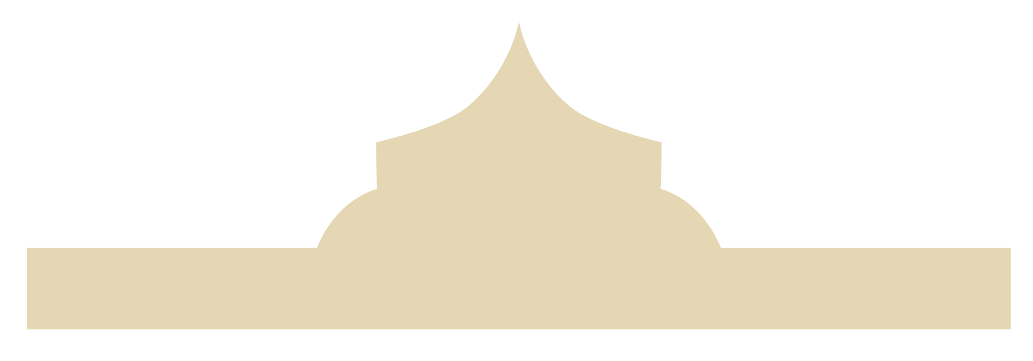
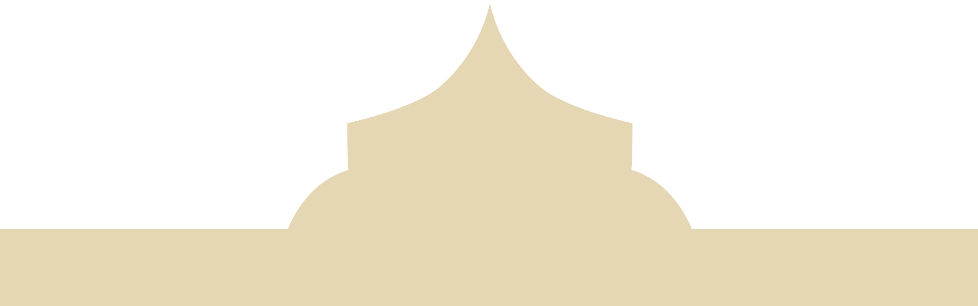
tajmahal + forehead size reduced

diff --git a/app/page.jsx b/app/page.jsx
@@ -20,13 +20,14 @@ import fiveStars from "@/public/home/five-stars.png";
 import ourStoryImage0 from "/public/homepage/ourStoryImage0.png";
 import ourStoryImage1 from "/public/homepage/ourStoryImage1.png";
 import katherinesDumbLeafThatSheReallyWantedAndImReallyTiltedRnINeedToHopOffWebDevScrewWebDevCppIsBetter from "/public/homepage/katherinesDumbLeafThatSheReallyWantedAndImReallyTiltedRnINeedToHopOffWebDevScrewWebDevCppIsBetter.png";
+import tajMahal from "/public/homepage/tajmahal.png";
 
 export default function Home() {
   return (
     <main className="">
       <HomePageBanner />
 
-      {/* Our Story. Does not work with parallax rn*/}
+      {/* Our Story*/}
       {ourStorySection()}
 
       <MenuPreview />
@@ -225,8 +226,15 @@ function Review({ children, author = "", className }) {
 
 function ourStorySection() {
   return (
-    <section className={"relative h-fit pt-[5vh] pb-[15vh]"}>
-      <div className={"bg-white w-[96%] md:w-[90%] h-max mx-[2%] md:ml-[5%] mt-[10%]"}>
+    <section className={"relative h-max pt-[1px] pb-[10vh]"}>
+
+      <div className={"absolute w-screen h-[10%]"}>
+        <div className={"relative w-screen h-[100%] flex justify-center items-center"}>
+          <Image src={tajMahal} alt={"fancy line to indicate next section"} className={"h-auto w-[60%] md:w-[25%] absolute top-[-6.5vh] md:top-[-10vh] xl:top-[-9vh]"}/>
+        </div>
+      </div>
+
+      <div className={"bg-white w-[96%] md:w-[90%] h-max mx-[2%] md:ml-[5%] mt-[7%]"}>
 
         {/*Desktop Version*/}
         <div className={"hidden lg:block pb-[15vh] relative"}>

diff --git a/components/HomePageBanner.jsx b/components/HomePageBanner.jsx
@@ -65,7 +65,7 @@ export default function HomePageBanner() {
       className="overflow-hidden perspective-1000"
       speed={0.5}
     >
-      <div className="transform-style-3d lg:rotate-x-[var(--rotate-x)] lg:rotate-y-[var(--rotate-y)] transition-transform ease-out duration-1000 will-change-transform transform-3d relative">
+      <div className="transform-gpu transform-style-3d lg:rotate-x-[var(--rotate-x)] lg:rotate-y-[var(--rotate-y)] transition-transform ease-out duration-1000 will-change-transform transform-3d relative">
         <div className="w-screen h-screen scale-[1.2] relative -translate-z-[50px]">
           <Image
             src={bg}

diff --git a/app/layout.jsx b/app/layout.jsx
@@ -3,7 +3,7 @@ import "./globals.css";
 import Navbar from "@/components/Navbar";
 
 export const metadata = {
-  title: "",
+  title: "Craftroots",
   description: "",
 };
 
